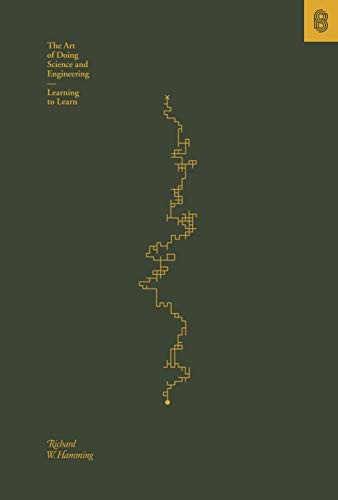
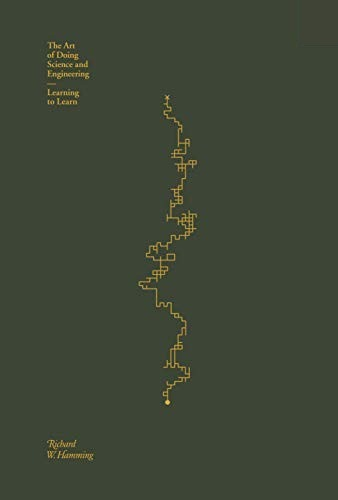
perf: seeded tile grain, willReadFrequently, culori/fn; trim Hamming badge

Changed region(s): [[0.8876, 0.0, 1.0, 0.09]]

diff --git a/src/lib/covers.ts b/src/lib/covers.ts
@@ -116,7 +116,7 @@ export function drawCover(canvas: HTMLCanvasElement, motif: { name: MotifName; s
   const dpr = dprOf();
   const W = canvas.clientWidth, H = canvas.clientHeight;
   canvas.width = W * dpr; canvas.height = H * dpr;
-  const c = canvas.getContext('2d')!;
+  const c = canvas.getContext('2d', { willReadFrequently: true })!;
   c.scale(dpr, dpr);
   c.fillStyle = m.bg; c.fillRect(0, 0, W, H);
   glow(c, W, H, m.ink ? 'multiply' : 'lighter', m.ink ? 'rgba(255,170,120,0.45)' : 'rgba(255,140,60,0.35)');
@@ -150,8 +150,8 @@ export function drawImageCover(canvas: HTMLCanvasElement, img: HTMLImageElement,
   const dpr = dprOf();
   const W = canvas.clientWidth, H = canvas.clientHeight;
   canvas.width = W * dpr; canvas.height = H * dpr;
-  const c = canvas.getContext('2d')!;
-  const s = Math.max(canvas.width / img.naturalWidth, canvas.height / img.naturalHeight) * 1.04; // 2% inset per edge: hides source borders
+  const c = canvas.getContext('2d', { willReadFrequently: true })!;
+  const s = Math.max(canvas.width / img.naturalWidth, canvas.height / img.naturalHeight) * 1.08; // 4% inset per edge: hides source borders and edge slivers
   const w = img.naturalWidth * s, h = img.naturalHeight * s;
   c.drawImage(img, (canvas.width - w) / 2, (canvas.height - h) / 2, w, h);
   const d = c.getImageData(0, 0, canvas.width, canvas.height), p = d.data;

diff --git a/src/scripts/tile-lost.ts b/src/scripts/tile-lost.ts
@@ -1,6 +1,7 @@
+import { mulberry32 } from '../lib/covers';
 // Port of the mock's "lost" tile: hero-blue square, orange tangled "wavefunction", grain. Static; redrawn when the theme shifts.
 function draw(cv: HTMLCanvasElement) {
-  const c = cv.getContext('2d');
+  const c = cv.getContext('2d', { willReadFrequently: true });
   if (!c) return;
   const W = 72, H = 72;
   c.fillStyle = getComputedStyle(document.documentElement).getPropertyValue('--hero').trim() || '#3868f2';
@@ -16,8 +17,8 @@ function draw(cv: HTMLCanvasElement) {
   }
   c.globalAlpha = 0.85; c.stroke(); c.globalAlpha = 1;
   c.fillStyle = '#fff'; c.beginPath(); c.arc(36, 36, 2.6, 0, 7); c.fill();
-  const d = c.getImageData(0, 0, W, H), q = d.data;
-  for (let i = 0; i < q.length; i += 4) { const r = (Math.random() - 0.5) * 26; q[i] += r; q[i + 1] += r; q[i + 2] += r; }
+  const d = c.getImageData(0, 0, W, H), q = d.data, rand = mulberry32(72); // fixed seed: grain stays put across theme redraws
+  for (let i = 0; i < q.length; i += 4) { const r = (rand() - 0.5) * 26; q[i] += r; q[i + 1] += r; q[i + 2] += r; }
   c.putImageData(d, 0, 0);
 }
 

diff --git a/src/lib/theme.ts b/src/lib/theme.ts
@@ -1,5 +1,8 @@
 import { getTimes } from 'suncalc';
-import { interpolate, formatHex } from 'culori';
+import { useMode, modeOklch, modeRgb, interpolate, formatHex } from 'culori/fn';
+
+useMode(modeRgb); // parses hex, backs formatHex
+useMode(modeOklch);
 import { PALETTES, PHASES, type Phase } from './palette';
 import src from '../scripts/phase-of.js?raw';
 
